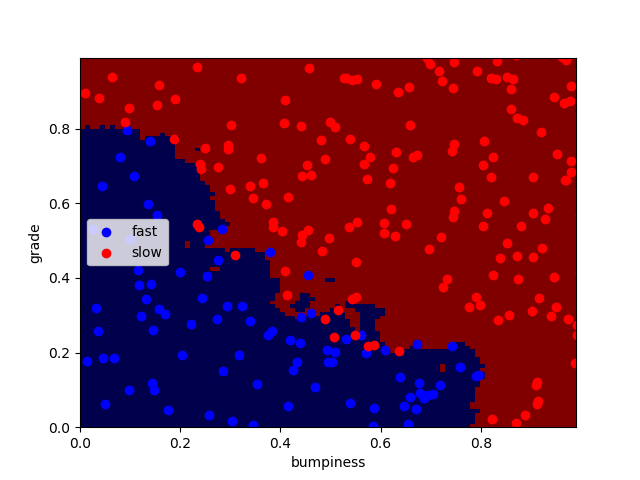
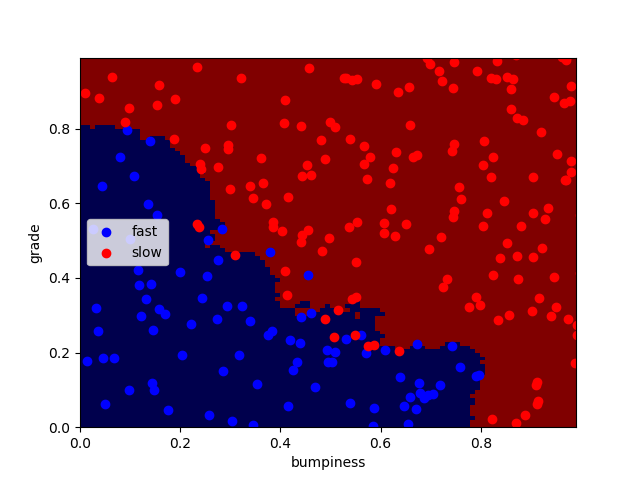
[DEV[ KNN algorithm tuning

diff --git a/classification/k_nearest_neighbors/terrain_classification/classifyKNN.py b/classification/k_nearest_neighbors/terrain_classification/classifyKNN.py
@@ -3,8 +3,8 @@ from sklearn.neighbors import KNeighborsClassifier
 
 def classify(features_train, labels_train):
 
-    clf = KNeighborsClassifier(algorithm='auto',
-                               n_neighbors=3,
+    clf = KNeighborsClassifier(algorithm='ball_tree',
+                               n_neighbors=11,
                                weights='distance')
     clf.fit(features_train, labels_train)
 
